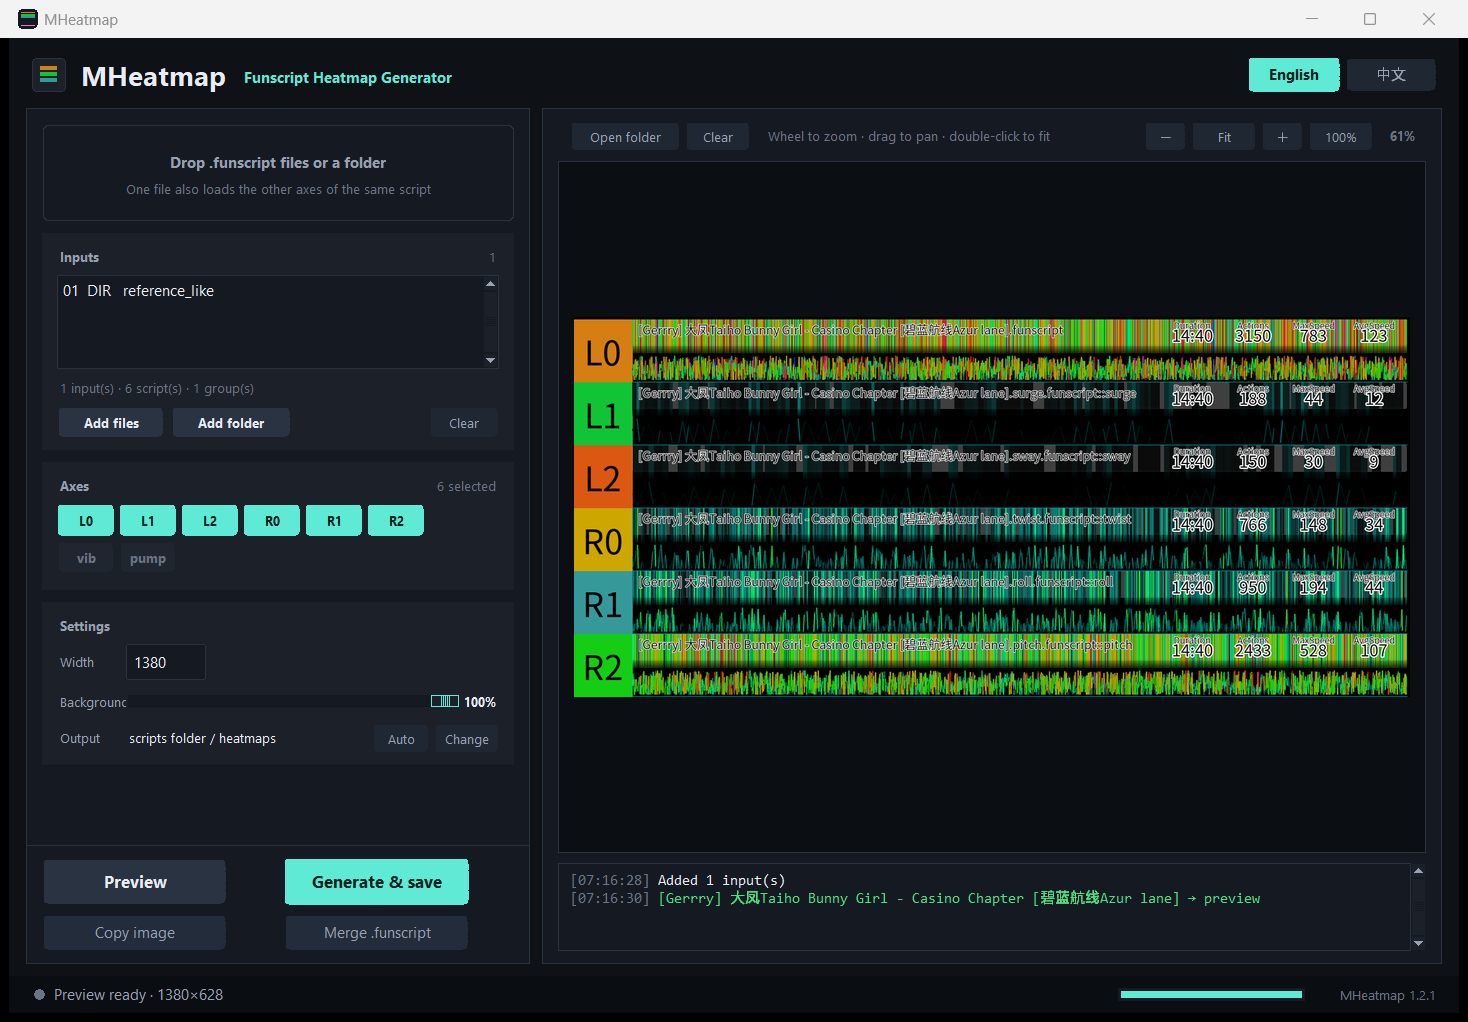
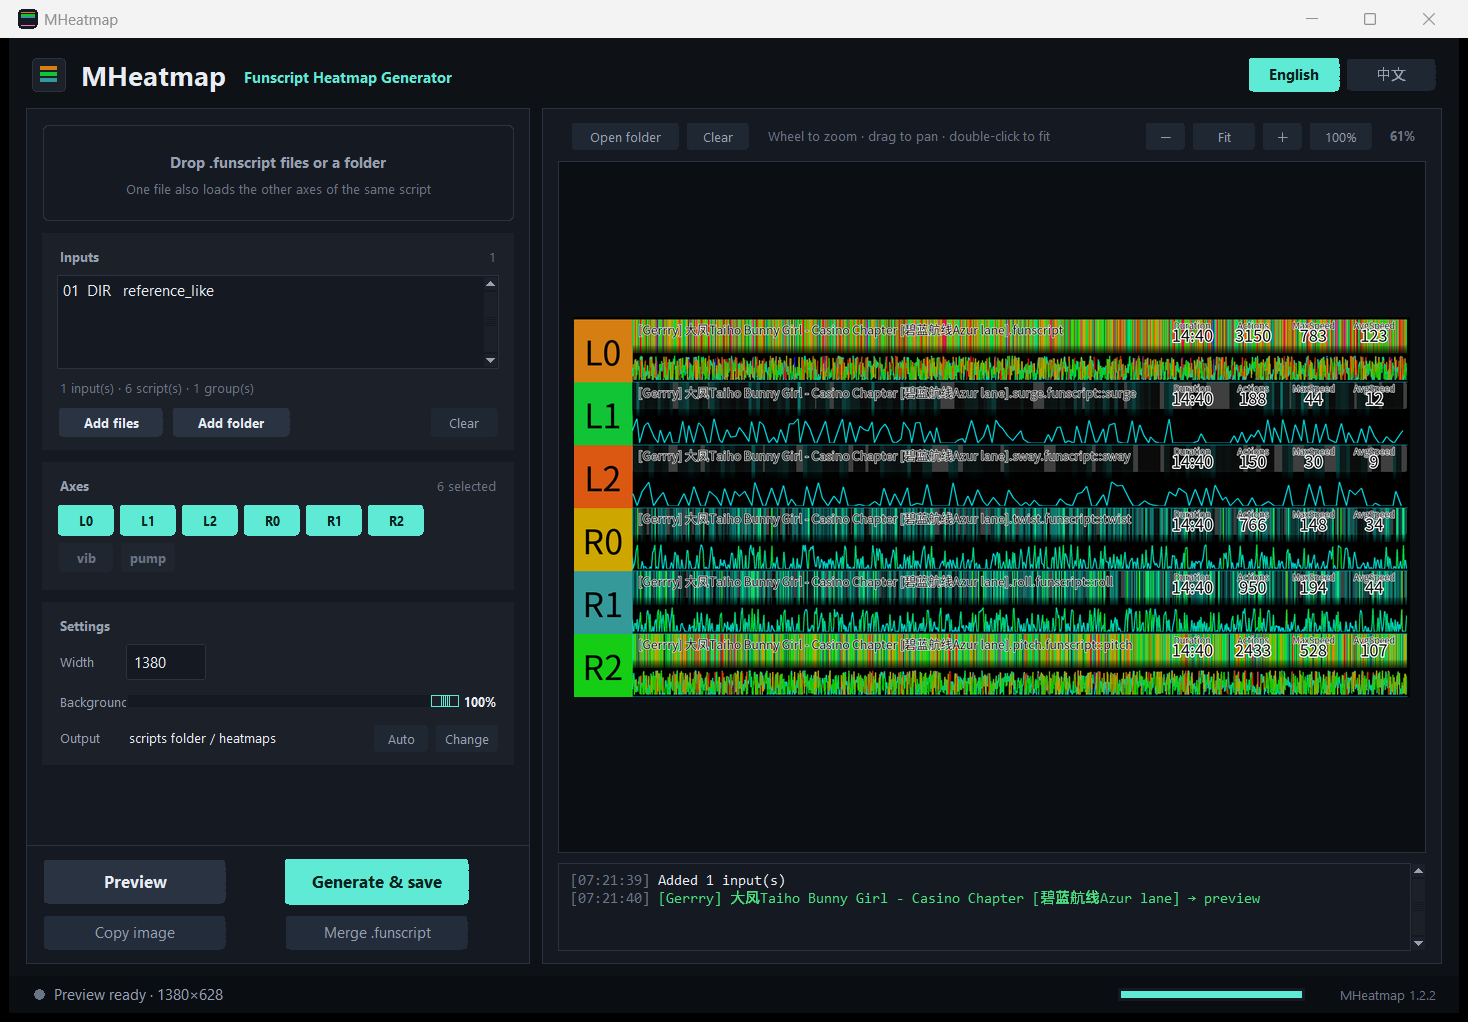
fix(1.2.2): curve uses the cyan speed ramp instead of the heat palette (no more black lines)

diff --git a/tools/make_user_like.py b/tools/make_user_like.py
@@ -1,0 +1,57 @@
+"""生成与用户实际脚本统计量接近的六轴素材（3:56，含稀疏/爆发段）。"""
+from __future__ import annotations
+
+import json
+import random
+from pathlib import Path
+
+OUT = Path(r"D:\AI自写软件\heatmapgen-ui\refs\user_like")
+NAME = "[LikeHugeB] Sex大乱斗照進现实 IN REALITY Evanescia Remielle Dan Raiden Mei"
+DURATION_MS = 236_000
+
+# suffix, actions, max speed, avg speed, burst probability
+AXES = (
+    ("", 2395, 604, 239, 0.55),
+    (".surge", 240, 309, 98, 0.30),
+    (".sway", 149, 361, 122, 0.30),
+    (".twist", 169, 343, 144, 0.35),
+    (".roll", 1026, 341, 110, 0.40),
+    (".pitch", 2062, 489, 94, 0.30),
+)
+
+random.seed(20261124)
+
+
+def build(count: int, max_speed: float, avg_speed: float, burst: float):
+    actions = []
+    position = 50.0
+    step = DURATION_MS / count
+    for index in range(count):
+        at = int(round(index * step))
+        actions.append({"at": min(DURATION_MS, at), "pos": int(round(max(0, min(100, position))))})
+        delta_t = max(16, int(round(step * random.uniform(0.8, 1.2))))
+        if random.random() < burst:
+            speed = max_speed * random.uniform(0.55, 1.0)
+        else:
+            speed = avg_speed * random.uniform(0.25, 0.9)
+        delta = speed * delta_t / 1000.0
+        if delta > 45:
+            delta = 45
+        direction = 1 if position < 50 else -1
+        if position + direction * delta > 100 or position + direction * delta < 0:
+            direction = -direction
+        position = max(0.0, min(100.0, position + direction * delta))
+    return actions
+
+
+OUT.mkdir(parents=True, exist_ok=True)
+for suffix, count, max_speed, avg_speed, burst in AXES:
+    actions = build(count, max_speed, avg_speed, burst)
+    data = {"version": "1.0", "inverted": False, "range": 100, "actions": actions,
+            "metadata": {"title": NAME, "duration": DURATION_MS}}
+    path = OUT / f"{NAME}{suffix}.funscript"
+    path.write_text(json.dumps(data, ensure_ascii=False), encoding="utf-8")
+
+    speeds = [abs(b["pos"] - a["pos"]) * 1000 / (b["at"] - a["at"]) for a, b in zip(actions, actions[1:]) if b["at"] > a["at"]]
+    print(f"{suffix or '.l0':7s} {len(actions):5d} actions  max={max(speeds):6.0f}  "
+          f"avg={sum(speeds)/len(speeds):6.1f}")

diff --git a/tools/run_checks.py b/tools/run_checks.py
@@ -74,7 +74,7 @@ def test_core():
     check("只剩一套配色", list(core.PALETTES) == ["ofs"], str(list(core.PALETTES)))
 
 
-def test_render():
+def test_render(work: Path):
     print("\n[2] 渲染 / 背景透明度 / 轴筛选")
     files = core.collect_inputs([SAMPLES])
     axes = core.group_files(files)[0]["axes"]
@@ -101,6 +101,24 @@ def test_render():
     except ValueError:
         none_error = True
     check("一个轴都不选时报错", none_error)
+
+    # 曲线配色：静止段必须是青色而不是黑色（旧 bug 用了热力色板）
+    flat_path = work / "flat.funscript"
+    flat_actions = [{"at": i * 500, "pos": 50 if (i // 2) % 2 == 0 else 20} for i in range(120)]
+    flat_path.write_text(json.dumps({"version": "1.0", "actions": flat_actions},
+                                    ensure_ascii=False), encoding="utf-8")
+    flat_image = core.render_group({"L0": flat_path}, 900)
+    pixels = flat_image.convert("RGB").load()
+    curve_colors = []
+    for y in range(core.TOP_MARGIN + 62, core.TOP_MARGIN + 100):
+        for x in range(100, 890):
+            red, green, blue = pixels[x, y]
+            if red + green + blue > 150:
+                curve_colors.append((red, green, blue))
+    check("静止段曲线不是黑色", len(curve_colors) > 50, str(len(curve_colors)))
+    check("静止段曲线是青色系",
+          any(green > 110 and blue > 50 and red < 90 for red, green, blue in curve_colors),
+          str(curve_colors[:3]))
 
     single = core.render_group({"L0": axes["L0"]}, 1380)
     check("单轴只画一行", single.size == (1380, 108), str(single.size))
@@ -259,7 +277,7 @@ def main() -> int:
     work = Path(tempfile.mkdtemp(prefix="mheatmap-test-"))
     print(f"临时目录：{work}")
     test_core()
-    test_render()
+    test_render(work)
     test_merge(work)
     test_i18n()
     test_ui(work)

diff --git a/mheatmap/core.py b/mheatmap/core.py
@@ -17,7 +17,7 @@ from pathlib import Path
 from PIL import Image, ImageDraw, ImageFilter, ImageFont
 
 APP_NAME = "MHeatmap"
-VERSION = "1.2.1"
+VERSION = "1.2.2"
 
 # ------------------------------------------------------------------ geometry
 TOP_MARGIN = 4
@@ -479,7 +479,7 @@ def render_group(axes: dict[str, Path], width: int = DEFAULT_WIDTH, bg_opacity: 
 
         draw_stats(image, plot_x + plot_w - stats_w - 4, y + 2, stats_w, actions, use_duration)
         draw_curve(image, actions, use_duration, plot_x, y + BAND_HEIGHT + 4, plot_w,
-                   ROW_HEIGHT - BAND_HEIGHT - 8, max_speed, stops)
+                   ROW_HEIGHT - BAND_HEIGHT - 8, max_speed)
         draw.line((plot_x, y + ROW_HEIGHT - 1, plot_x + plot_w, y + ROW_HEIGHT - 1),
                   fill=(0, 150, 170, 255), width=1)
 

diff --git a/app.py b/app.py
@@ -38,7 +38,7 @@ except Exception:  # noqa: BLE001
     HAS_DND = False
 
 APP_TITLE = "MHeatmap"
-UI_VERSION = "1.2.1"
+UI_VERSION = "1.2.2"
 
 # ---------------------------------------------------------------- theme
 BG = "#0e1116"

diff --git a/packaging/release-notes-1.2.2.md b/packaging/release-notes-1.2.2.md
@@ -1,0 +1,28 @@
+MHeatmap 1.2.2 — curve colour fix
+=================================
+
+What was wrong
+--------------
+
+The speed curve was passed the *heat* palette instead of the cyan curve ramp.
+The heat palette is black at zero intensity and dark from 0.4 upwards, so any
+flat/holding section of a script drew a **black line** (and fast sections drew
+dark olive/teal) — exactly the “some lines turned black” report.
+
+Fix
+---
+
+- `draw_curve` now always uses the dedicated curve ramp (the original
+  LINE_COLOR_STOPS: cyan → green → yellow → red → purple), so:
+  - zero-speed / holding segments are **cyan**,
+  - normal movement is green/yellow,
+  - only really fast segments go red/purple.
+- Added a regression check: a script made of holding segments must produce
+  cyan curve pixels, never black ones.
+
+Still in place from 1.2.1
+-------------------------
+
+Opaque heat band (212 alpha), linear palette lookup, pure-black canvas, hard
+40 px band edge with a 21 % tail, 2 px curve. Copy-to-clipboard, standalone
+merge, single OFS palette, background-opacity slider, axis pills, EN/中文.
